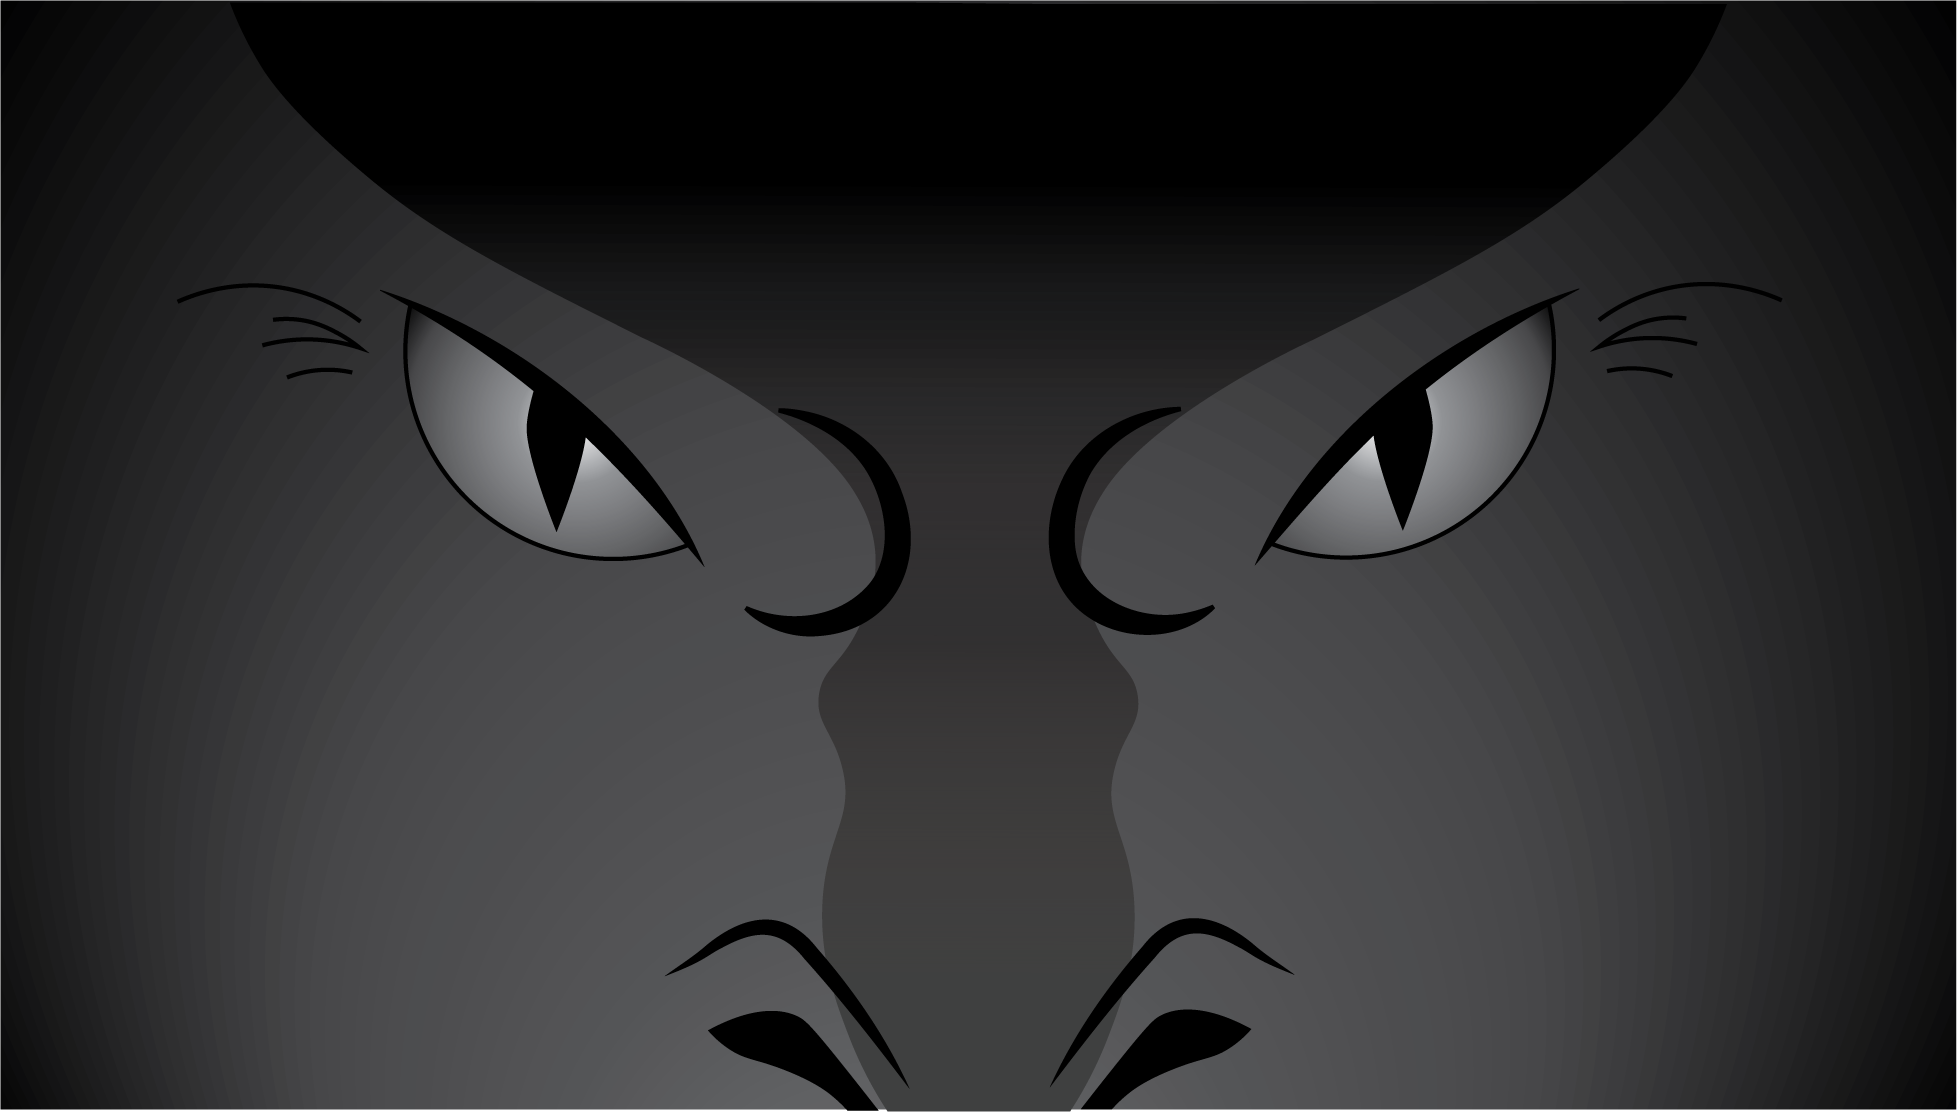
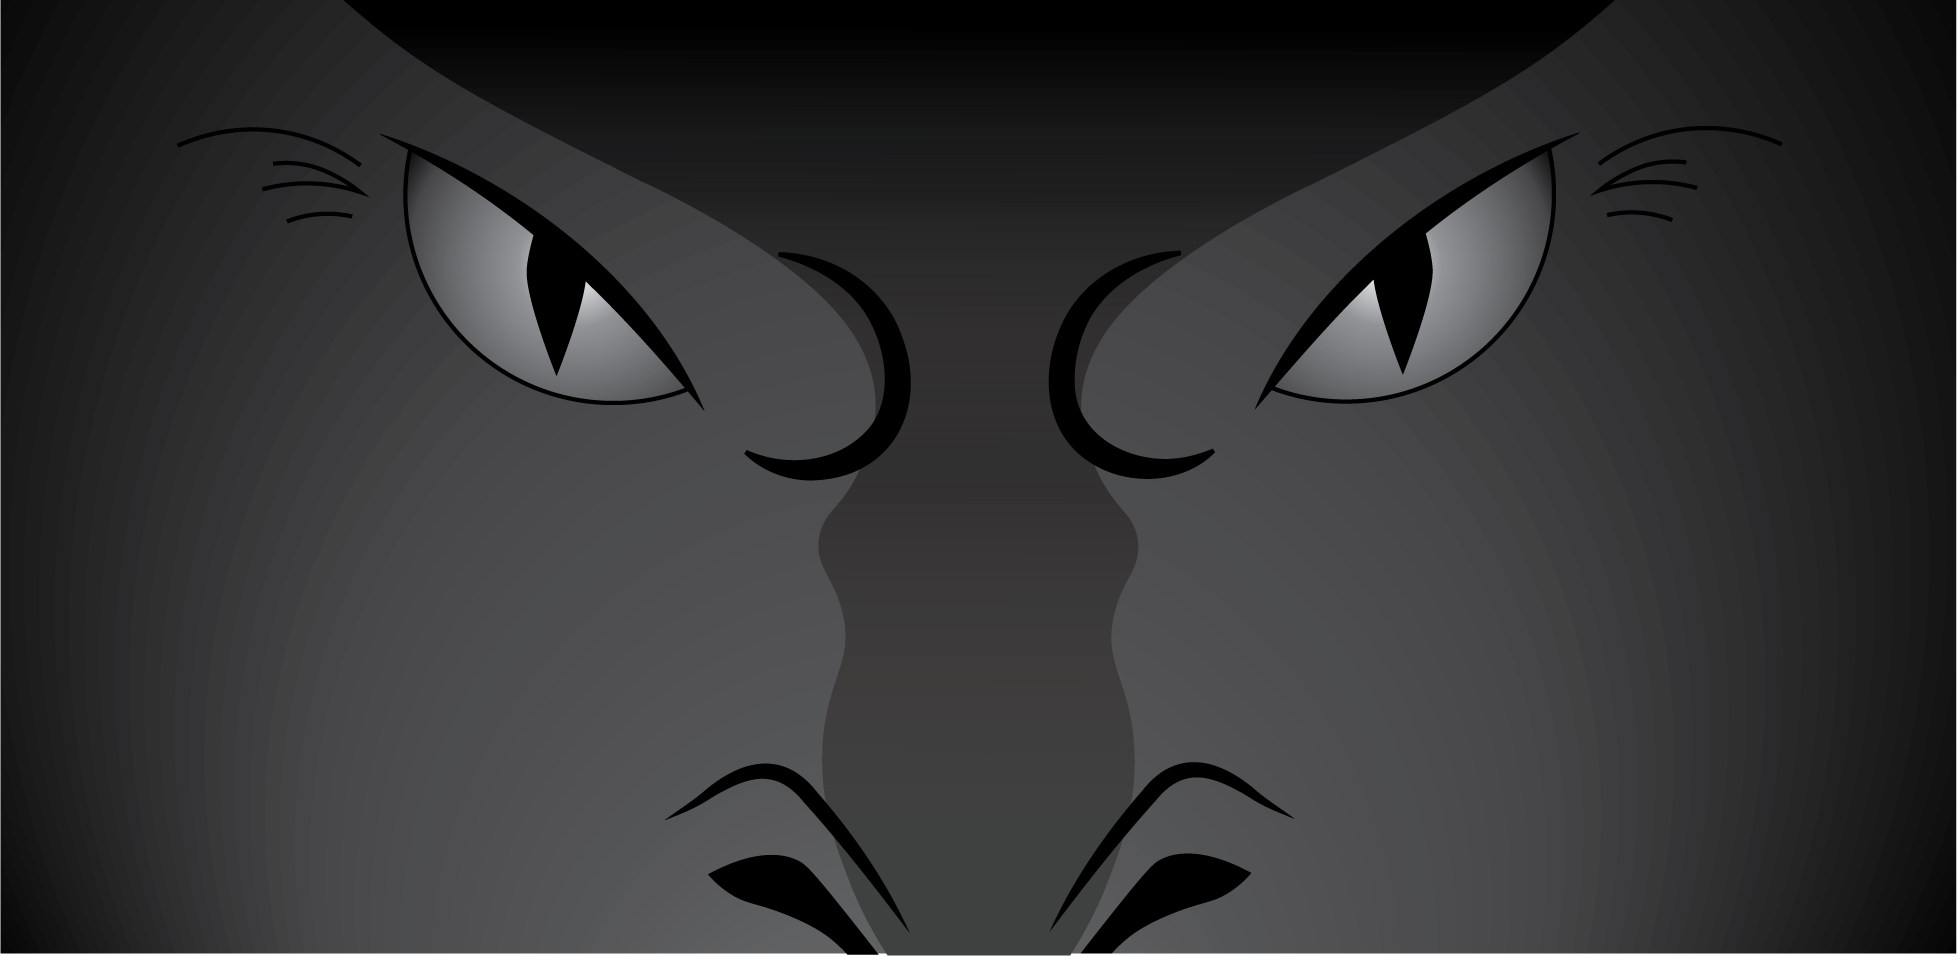
Aften Quest Hero image

diff --git a/fantasyfestival/src/views/AftenView.vue b/fantasyfestival/src/views/AftenView.vue
@@ -1,13 +1,29 @@
 <script setup>
+// @import dragonnight.png;
 </script>
 
 <template>
-  <div>
-
+  <div class="container">
+    <div class="hero">
+      <img src="../assets/img/dragonnight.png" alt="Dragon Looking">
+      <!-- <img src="../assets/img/dragonnight.png" alt="Dragon Looking"> -->
+    </div>
   </div>
 </template>
 
 
 <style lang="scss" scoped>
+.container{
+  display: flex;
+  width: 100%;
+  justify-content: center;
+}
 
+.hero{
+  display: flex;
+  justify-content: center;
+  align-items: center;
+  width: 100%;
+  height: 100vh;
+}
 </style>

diff --git a/fantasyfestival/src/App.vue b/fantasyfestival/src/App.vue
@@ -22,6 +22,7 @@ import { RouterLink, RouterView } from 'vue-router'
 header {
   line-height: 1.5;
   max-height: 100vh;
+  position: absolute;
 }
 
 .logo {
@@ -30,10 +31,11 @@ header {
 }
 
 nav a {
-  display: flex;
+  margin-right: 1rem;
+  /* display: flex; */
 }
 
-@media (min-width: 1024px) {
+/* @media (min-width: 1024px) {
   header {
     display: flex;
     place-items: center;
@@ -49,5 +51,5 @@ nav a {
     place-items: flex-start;
     flex-wrap: wrap;
   }
-}
+} */
 </style>

diff --git a/fantasyfestival/src/assets/main.css b/fantasyfestival/src/assets/main.css
@@ -2,15 +2,3 @@
 @tailwind components;
 @tailwind utilities;
 
-#app {
-  max-width: 1280px;
-  margin: 0 auto;
-  padding: 2rem;
-  font-weight: normal;
-}
-
-  #app {
-    display: grid;
-    grid-template-columns: 1fr 1fr;
-    padding: 0 2rem;
-  }
